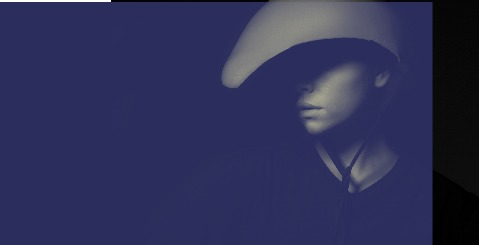
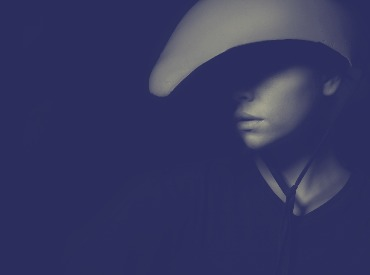
fixing mobile

diff --git a/css/style.css b/css/style.css
@@ -99,7 +99,8 @@ textarea {
 
 .container {
   margin: 0 auto;
-  min-width: 320px; }
+  min-width: 320px;
+  max-width: 370px; }
 
 @media (min-width: 1600px) {
   .container {
@@ -196,7 +197,8 @@ textarea {
 .social-block__link svg {
   width: 18px;
   height: 18px;
-  fill: #ffffff; }
+  fill: #ffffff;
+  opacity: 0.7; }
 
 @media (min-width: 1600px) {
   .social-block__item {
@@ -221,8 +223,8 @@ textarea {
   background-color: #2b2d5c;
   background-image: url("../img/background-header-320.jpg");
   background-repeat: no-repeat;
-  background-size: 479px 245px;
-  background-position: -50px -3px; }
+  background-size: 370px 275px;
+  background-position: center; }
 
 .main-header__block-wrap {
   display: flex;
@@ -253,7 +255,8 @@ textarea {
   margin-bottom: 15px; }
 
 .main-header__title--mobile {
-  display: block; }
+  display: block;
+  opacity: 0.8; }
 
 .main-header__greeting {
   font-size: 16px;
@@ -261,10 +264,12 @@ textarea {
   font-weight: 300;
   color: #595666;
   font-family: "Muli";
+  color: #ffffff;
   display: none;
   margin-bottom: 35px;
   font-weight: 400;
-  letter-spacing: 0.1px; }
+  letter-spacing: 0.1px;
+  opacity: 0.6; }
 
 .main-header__greeting--mobile {
   display: block; }
@@ -471,6 +476,7 @@ textarea {
 
 .blog {
   display: grid;
+  justify-content: space-around;
   padding: 30px;
   padding-bottom: 60px;
   background-color: #f7f7fc; }
@@ -487,6 +493,7 @@ textarea {
 
 .blog__article {
   display: none;
+  width: 260px;
   background-color: #ffffff; }
 
 .blog__article--shown {
@@ -524,9 +531,9 @@ textarea {
     display: block;
     position: absolute;
     width: 96px;
-    height: 11px;
+    height: 8px;
     background-color: #ffcc00;
-    bottom: 5px;
+    bottom: 9px;
     left: 0;
     opacity: 0.5; }
 
@@ -585,7 +592,15 @@ textarea {
     font-size: 15px;
     line-height: 28px; }
   .blog__article-link {
-    margin-top: 25px; } }
+    margin-top: 25px; }
+    .blog__article-link::before {
+      content: "";
+      display: block;
+      position: absolute;
+      width: 96px;
+      height: 11px;
+      background-color: #ffcc00;
+      bottom: 5px; } }
 
 .contact-form__form {
   padding-top: 60px;
@@ -745,6 +760,9 @@ textarea {
 @media (min-width: 1600px) {
   .footer-nav {
     display: block; } }
+
+.gallery {
+  justify-self: center; }
 
 .gallery__list {
   margin: 0;

diff --git a/sass/blocks/blog.scss b/sass/blocks/blog.scss
@@ -1,5 +1,6 @@
 .blog {
 	display: grid;
+	justify-content: space-around;
 	padding: 30px;
 	padding-bottom: 60px;
 	background-color: $background-color;
@@ -19,6 +20,7 @@
 
 .blog__article {
 	display: none;
+	width: 260px;
 	background-color: $white;
 }
 
@@ -57,8 +59,8 @@
 	line-height: 32px;
 
 	&::before {
-		@include element-style(96px, 11px, #ffcc00);
-		bottom: 5px;
+		@include element-style(96px, 8px, #ffcc00);
+		bottom: 9px;
 		left: 0;
 		opacity: 0.5;
 	}
@@ -142,5 +144,10 @@
 
   .blog__article-link {
   	margin-top: 25px;
+
+  	&::before {
+			@include element-style(96px, 11px, #ffcc00);
+			bottom: 5px;
+		}
   }
 }

diff --git a/sass/blocks/main-header.scss b/sass/blocks/main-header.scss
@@ -5,8 +5,8 @@
 	background-color: $background-decor;
 	background-image: url("../img/background-header-320.jpg");
 	background-repeat: no-repeat;
-	background-size: 479px 245px;
-	background-position: -50px -3px;
+	background-size: 370px 275px;
+	background-position: center;
 }
 
 .main-header__block-wrap {
@@ -44,14 +44,17 @@
 
 .main-header__title--mobile {
 	display: block;
+	opacity: 0.8;
 }
 
 .main-header__greeting {
 	@include font-base(16px, 22px);
+	color: $white;
 	display: none;
 	margin-bottom: 35px;
 	font-weight: 400;
 	letter-spacing: 0.1px;
+	opacity: 0.6;
 }
 
 .main-header__greeting--mobile {

diff --git a/sass/blocks/container.scss b/sass/blocks/container.scss
@@ -1,6 +1,7 @@
 .container {
 	margin: 0 auto;
 	min-width: 320px;
+	max-width: 370px;
 }
 
 @media (min-width: 1600px) {

diff --git a/sass/blocks/social-block.scss b/sass/blocks/social-block.scss
@@ -27,6 +27,7 @@
 	width: 18px;
 	height: 18px;
 	fill: $white;
+	opacity: 0.7;
 }
 
 @media (min-width: 1600px) {

diff --git a/sass/blocks/gallery.scss b/sass/blocks/gallery.scss
@@ -1,3 +1,7 @@
+.gallery {
+	justify-self: center;
+}
+
 .gallery__list {
 	@include list-style;
 	display: grid;
